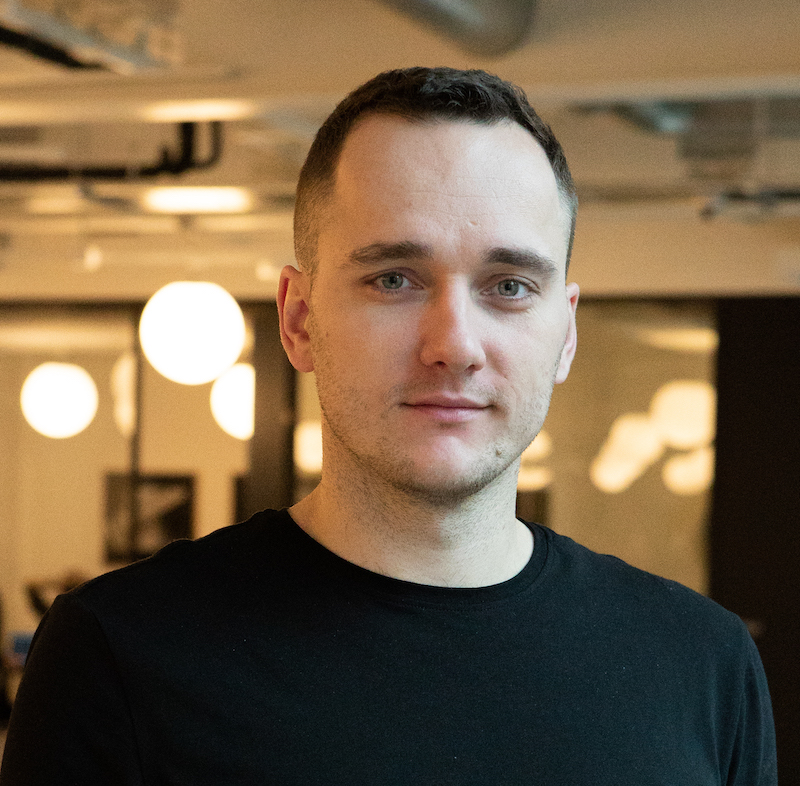
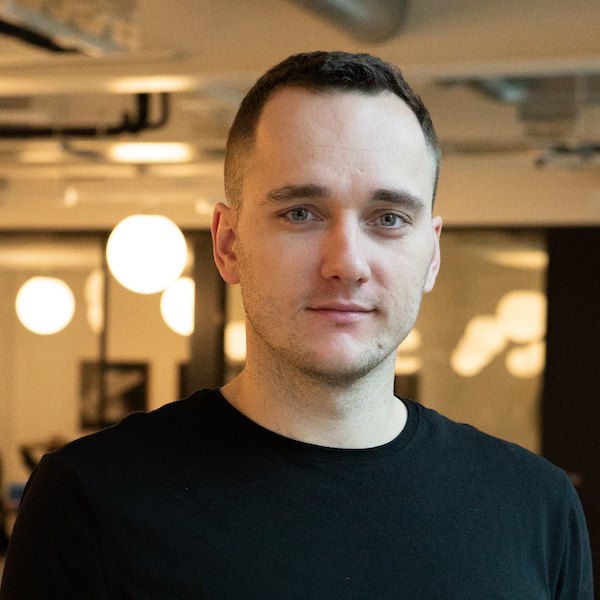
set image width and heigh

diff --git a/index.html b/index.html
@@ -5,7 +5,7 @@ title: Home
 
 <div class="home__content">
   <header>
-    <img class="profile-pic" src="{{ site.baseurl }}/assets/profile-pic.jpg" alt="profile pic" />
+    <img width="200" height="200" class="profile-pic" src="{{ site.baseurl }}/assets/profile-pic.jpg" alt="profile pic" />
     <h1>
       Hey, I’m Kacper&nbsp;Goliński. The&nbsp;Software Engineer with a passion for cycling.
     </h1>
